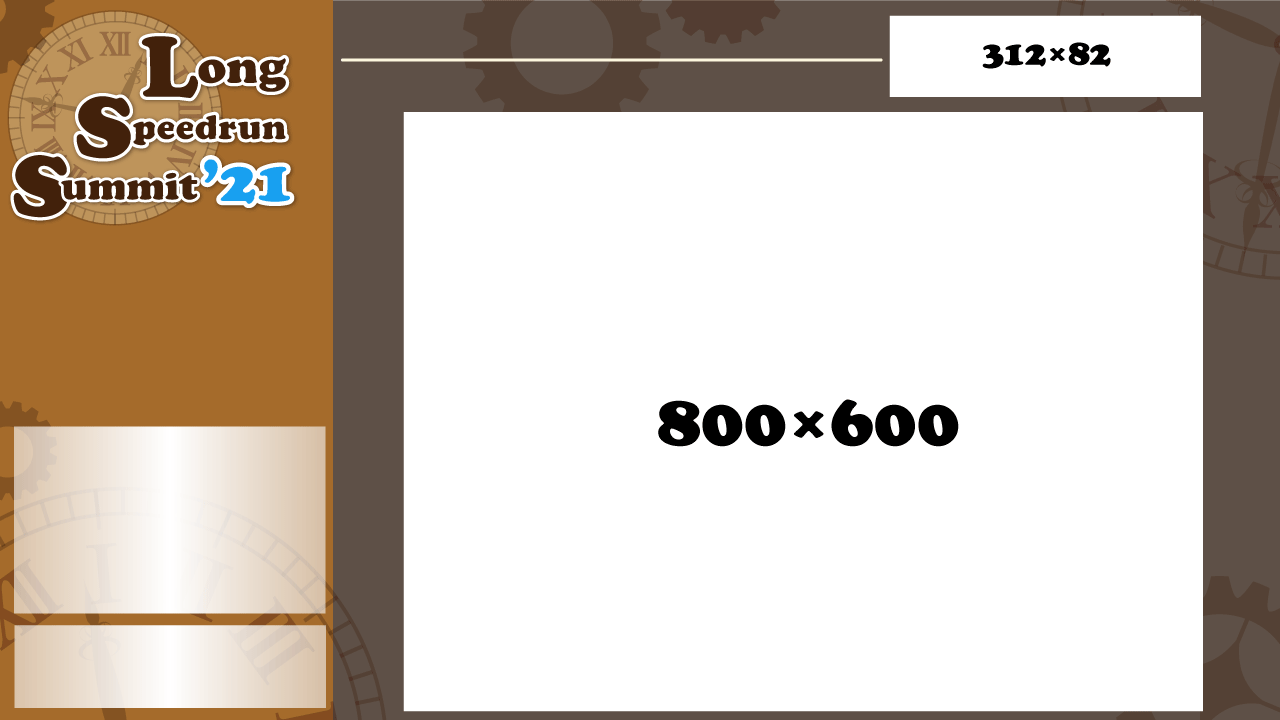
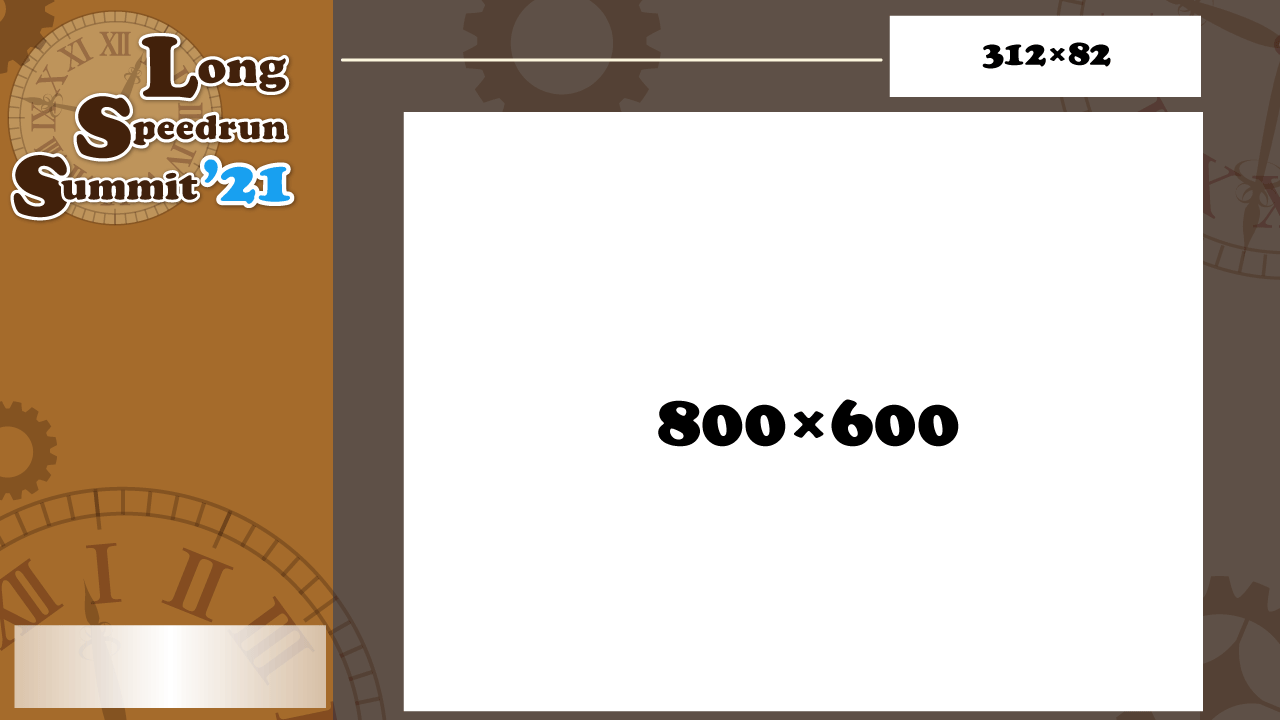
複数解説対応

Changed region(s): [[0.0, 0.5806, 0.2812, 0.8556]]

diff --git a/js/main.js b/js/main.js
@@ -18,13 +18,27 @@ $(function(){
             var textLength = data.split(",");
             $("#cate").text(textLength[0]);
             
+            var colArr = ["comName","comID"];
+
             for(let i=0;i < obj.length;i++){
                 var clname = "#"+ obj[i];
                 if(obj[i] == "comName" && textLength[colNum[i]] == "") {
                     $("#commentator").css("display","none");
+                    $("#commentator2").css("display","none");
+                    $(".freeSpace").css("height","300px");
+                }else if(obj[i] == "comName" && textLength[colNum[i]].indexOf("/") < 1){
+                    $(".freeSpace").css("height","210px");
+                    $("#commentator2").css("display","none");
                 }
-
-                if(obj[i].match(/Icon/) && textLength[colNum[i]] != ""){
+                if(obj[i] == "comIcon" &&  textLength[colNum[i]].indexOf("/") >= 1){
+                    var listIcon = textLength[colNum[i]].split("/");
+                    for (let index = 0; index < listIcon.length; index++) {
+                        const element = listIcon[index];
+                        $(clname + (index + 1)).addClass(element);
+                    }
+                }else if(obj[i] == "comIcon" && textLength[colNum[i]] != "" ){
+                        $(clname +  1).addClass( textLength[colNum[i]]);
+                }else if(obj[i].match(/Icon/) && textLength[colNum[i]] != ""){
                     $(clname).addClass(textLength[colNum[i]]);
                 }else if(obj[i] == "title" && textLength[colNum[i]] != ""){
                     var titleLen = textLength[colNum[i]].replace(/\r?\n/g , "");                    
@@ -56,6 +70,13 @@ $(function(){
                     $(clname).text("Category:" + textLength[colNum[i]]);
                 }else if(obj[i] == "nextCommentator" && textLength[colNum[i]] == ""){
                     $(clname).remove();
+                }else if(colArr.includes(obj[i]) && textLength[colNum[i]] != "" ){
+                    var listCom = textLength[colNum[i]].split("/");
+                    for (let index = 0; index < listCom.length; index++) {
+                        const element = listCom[index];
+                        $(clname + (index + 1)).text(listCom[index]); 
+                    }
+                    
                 }else{
                     $(clname).text(textLength[colNum[i]]);    
                 }

diff --git a/main_ds.html b/main_ds.html
@@ -41,13 +41,21 @@
                     </div>   
                 </div>
                 <div id="commentator">
-                    <div class="name nn" id="comName"></div>
+                    <div class="name nn" id="comName1"></div>
                     <div class="info">
-                        <div class="icon" id="comIcon"></div>  
-                        <div class="userID" id="comID"></div>     
+                        <div class="icon" id="comIcon1"></div>  
+                        <div class="userID" id="comID1"></div>     
                     </div>
-                </div>    
-    
+                </div>   
+                <div id="commentator2">
+                    <div class="name nn" id="comName2"></div>
+                    <div class="info">
+                        <div class="icon" id="comIcon2"></div>  
+                        <div class="userID" id="comID2"></div>     
+                    </div>
+                </div>                           
+            </div>
+            <div class="freeSpace">
             </div>
         </div>
         <div class="screenCol">

diff --git a/main_ds_r.html b/main_ds_r.html
@@ -41,13 +41,21 @@
                     </div>   
                 </div>
                 <div id="commentator">
-                    <div class="name nn" id="comName"></div>
+                    <div class="name nn" id="comName1"></div>
                     <div class="info">
-                        <div class="icon" id="comIcon"></div>  
-                        <div class="userID" id="comID"></div>     
+                        <div class="icon" id="comIcon1"></div>  
+                        <div class="userID" id="comID1"></div>     
                     </div>
-                </div>    
-    
+                </div>   
+                <div id="commentator2">
+                    <div class="name nn" id="comName2"></div>
+                    <div class="info">
+                        <div class="icon" id="comIcon2"></div>  
+                        <div class="userID" id="comID2"></div>     
+                    </div>
+                </div>               
+            </div>
+            <div class="freeSpace">
             </div>
         </div>
         <div class="screenCol">

diff --git a/main800px.html b/main800px.html
@@ -42,13 +42,22 @@
                     </div>   
                 </div>
                 <div id="commentator">
-                    <div class="name nn" id="comName"></div>
+                    <div class="name nn" id="comName1"></div>
                     <div class="info">
-                        <div class="icon" id="comIcon"></div>  
-                        <div class="userID" id="comID"></div>     
+                        <div class="icon" id="comIcon1"></div>  
+                        <div class="userID" id="comID1"></div>     
                     </div>
-                </div>    
+                </div>   
+                <div id="commentator2">
+                    <div class="name nn" id="comName2"></div>
+                    <div class="info">
+                        <div class="icon" id="comIcon2"></div>  
+                        <div class="userID" id="comID2"></div>     
+                    </div>
+                </div>          
     
+            </div>
+            <div class="freeSpace">
             </div>
         </div>
         <div class="screenCol">

diff --git a/main928px.html b/main928px.html
@@ -45,13 +45,22 @@
                     </div>   
                 </div>
                 <div id="commentator">
-                    <div class="name nn" id="comName"></div>
+                    <div class="name nn" id="comName1"></div>
                     <div class="info">
-                        <div class="icon" id="comIcon"></div>  
-                        <div class="userID" id="comID"></div>     
+                        <div class="icon" id="comIcon1"></div>  
+                        <div class="userID" id="comID1"></div>     
                     </div>
-                </div>    
+                </div>   
+                <div id="commentator2">
+                    <div class="name nn" id="comName2"></div>
+                    <div class="info">
+                        <div class="icon" id="comIcon2"></div>  
+                        <div class="userID" id="comID2"></div>     
+                    </div>
+                </div>          
     
+            </div>
+            <div class="freeSpace">
             </div>
         </div>
         <div class="screenCol">

diff --git a/main_3ds.html b/main_3ds.html
@@ -45,13 +45,22 @@
                     </div>   
                 </div>
                 <div id="commentator">
-                    <div class="name nn" id="comName"></div>
+                    <div class="name nn" id="comName1"></div>
                     <div class="info">
-                        <div class="icon" id="comIcon"></div>  
-                        <div class="userID" id="comID"></div>     
+                        <div class="icon" id="comIcon1"></div>  
+                        <div class="userID" id="comID1"></div>     
                     </div>
-                </div>    
+                </div>   
+                <div id="commentator2">
+                    <div class="name nn" id="comName2"></div>
+                    <div class="info">
+                        <div class="icon" id="comIcon2"></div>  
+                        <div class="userID" id="comID2"></div>     
+                    </div>
+                </div>          
     
+            </div>
+            <div class="freeSpace">
             </div>
         </div>
         <div class="screenCol">

diff --git a/css/style_ds.css b/css/style_ds.css
@@ -102,6 +102,21 @@ html{
     margin-top:10px;
     position: relative;
 }
+#commentator2{
+    background-image: url("../img/commentator.png");
+    width: 312px;
+    height: 71px;
+    margin-top:10px;
+    position: relative;
+}
+
+.freeSpace{
+    margin: 10px 6px;    
+    height: 130px;
+    border-radius: 15px;
+    background: -webkit-linear-gradient(top, rgba(255,255,255,0.5) 0%,rgba(255,255,255,0.52) 1%,rgba(255,255,255,0.8) 15%,rgba(255,255,255,1) 29%,rgba(255,255,255,1) 50%,rgba(255,255,255,1) 51%,rgba(255,255,255,0.8) 85%,rgba(255,255,255,0.5) 99%,rgba(255,255,255,0.5) 100%); /* Chrome10-25,Safari5.1-6 */
+    background: linear-gradient(to right, rgba(255,255,255,0.5) 0%,rgba(255,255,255,0.52) 1%,rgba(255,255,255,0.8) 15%,rgba(255,255,255,1) 29%,rgba(255,255,255,1) 50%,rgba(255,255,255,1) 51%,rgba(255,255,255,0.8) 85%,rgba(255,255,255,0.5) 99%,rgba(255,255,255,0.5) 100%); /* W3C, IE10+, FF16+, Chrome26+, Opera12+, Safari7+ */
+}
 
 #title{
     margin: 0 auto;

diff --git a/css/style.css b/css/style.css
@@ -63,6 +63,14 @@ html{
   margin-left:9px;
 }
 
+.freeSpace{
+  margin: 10px 6px;    
+  height: 130px;
+  border-radius: 15px;
+  background: -webkit-linear-gradient(top, rgba(255,255,255,0.5) 0%,rgba(255,255,255,0.52) 1%,rgba(255,255,255,0.8) 15%,rgba(255,255,255,1) 29%,rgba(255,255,255,1) 50%,rgba(255,255,255,1) 51%,rgba(255,255,255,0.8) 85%,rgba(255,255,255,0.5) 99%,rgba(255,255,255,0.5) 100%); /* Chrome10-25,Safari5.1-6 */
+  background: linear-gradient(to right, rgba(255,255,255,0.5) 0%,rgba(255,255,255,0.52) 1%,rgba(255,255,255,0.8) 15%,rgba(255,255,255,1) 29%,rgba(255,255,255,1) 50%,rgba(255,255,255,1) 51%,rgba(255,255,255,0.8) 85%,rgba(255,255,255,0.5) 99%,rgba(255,255,255,0.5) 100%); /* W3C, IE10+, FF16+, Chrome26+, Opera12+, Safari7+ */
+}
+
 .screenCol{
     position: fixed;
     top:20px;
